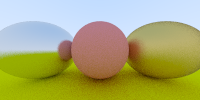
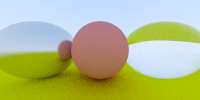
Chapter 9: Dielectrics
Added Dielectric material.

diff --git a/src/hitable/materials.rs b/src/hitable/materials.rs
@@ -1,5 +1,6 @@
 use hitable::hit_record::HitRecord;
 use hitable::utils;
+use rand::distributions::{Distribution, Uniform};
 use ray::Ray;
 use vec3::{dot, unit_vector, Vec3};
 
@@ -80,6 +81,78 @@ impl Material for Metal {
         // the ray has been scattered under the object's surface.
         let didScatter = dot(&scatteredRay.direction, &hit_record.normal) > 0.0;
         (scatteredRay, attenuation, didScatter)
+    }
+
+    fn box_clone(&self) -> Box<Material> {
+        Box::new((*self).clone())
+    }
+}
+
+/// A surface that splits a light ray into both a refracted and reflected ray (e.g. glass, water, etc.).
+/// 
+/// Note that only one ray is generated per interaction; the choice between reflected and refracted
+/// is chosen randomly.
+#[derive(Copy, Clone, Debug)]
+pub struct Dielectric {
+    pub refractive_index: f64,
+}
+
+impl Dielectric {
+    pub fn new(refractive_index: f64) -> Self {
+        Dielectric { refractive_index }
+    }
+}
+
+impl Material for Dielectric {
+    fn scatter(&self, input_ray: &Ray, hit_record: &HitRecord) -> (Ray, Vec3, bool) {
+        let range = Uniform::new_inclusive(0.0, 1.0);
+        let mut rng = rand::thread_rng();
+        // The glass surface does not absorb anything, so attenuation is set to 1
+        let attenuation = Vec3::new(1.0, 1.0, 1.0);
+        let dot_prod = dot(&input_ray.direction, &hit_record.normal);
+        // n1/n2 -> ray enters medium 2 from medium 1
+        let ni_over_nt: f64;
+        let cosine: f64;
+        let outward_normal: Vec3;
+
+        // If dot_prod is > 0, this means that the ray is coming from inside the object
+        if dot_prod > 0.0 {
+            outward_normal = -hit_record.normal;
+            ni_over_nt = self.refractive_index;
+            cosine = self.refractive_index * dot_prod / input_ray.direction.length();
+        } else {
+            outward_normal = hit_record.normal;
+            ni_over_nt = 1.0 / self.refractive_index;
+            cosine = -dot_prod / input_ray.direction.length();
+        }
+
+        let refracted_ray: Vec3;
+        let reflect_probability =
+            match utils::refract(&input_ray.direction, &outward_normal, ni_over_nt) {
+                Some(refracted) => {
+                    refracted_ray = refracted;
+                    utils::schlick_approx(cosine, self.refractive_index)
+                }
+                None => {
+                    refracted_ray = Vec3::new(0.0, 0.0, 0.0);
+                    1.0
+                }
+            };
+
+        let scattered_ray: Ray;
+        if range.sample(&mut rng) <= reflect_probability {
+            scattered_ray = Ray {
+                origin: hit_record.hit_point,
+                direction: utils::reflect(&input_ray.direction, &hit_record.normal),
+            }
+        } else {
+            scattered_ray = Ray {
+                origin: hit_record.hit_point,
+                direction: refracted_ray,
+            }
+        };
+
+        (scattered_ray, attenuation, true)
     }
 
     fn box_clone(&self) -> Box<Material> {

diff --git a/src/hitable/utils.rs b/src/hitable/utils.rs
@@ -1,5 +1,5 @@
 use rand::distributions::{Distribution, Uniform};
-use vec3::{dot, Vec3};
+use vec3::{dot, unit_vector, Vec3};
 
 /// Generates a random point in a unit-radius sphere
 pub fn random_point_in_unit_sphere() -> Vec3 {
@@ -27,4 +27,31 @@ pub fn random_point_in_unit_sphere() -> Vec3 {
 /// - `norm`: The surface normal of the mirror
 pub fn reflect(dir: &Vec3, norm: &Vec3) -> Vec3 {
     *dir - (2.0 * dot(dir, norm) * (*norm))
+}
+
+/// Calculates the direction of a ray after being refracted through a dielectric material
+/// #### Arguments:
+/// - `dir`: The initial direction of the ray
+/// - `norm`: The surface normal of the mirror
+/// - `ni_over_nt`: The refractive index of medium 1 divided by the refractive index of medium 2 (i.e. n1/n2)
+pub fn refract(dir: &Vec3, norm: &Vec3, ni_over_nt: f64) -> Option<Vec3> {
+    let unit_vec = unit_vector(*dir);
+    let dt = dot(&unit_vec, norm);
+    let discriminant = 1.0 - (ni_over_nt * ni_over_nt * (1.0 - dt * dt));
+    return if discriminant > 0.0 {
+        Some(ni_over_nt * (unit_vec - (*norm) * dt) - ((*norm) * discriminant.sqrt()))
+    } else {
+        None
+    };
+}
+
+/// Calculates Schlick's approximation for specular reflection
+/// #### General Form:
+/// - R(theta) = R_0 + (1 - R_0) * (1 - cos(theta))^5
+///   - where R_0 = ((n1 - n2) / (n1 + n2))^2
+/// - Note that in this case, the first medium is air which has a refractive index of 1 (i.e. n1 = 1)
+pub fn schlick_approx(cosine: f64, refractive_index: f64) -> f64 {
+    let mut r0 = (1.0 - refractive_index) / (1.0 + refractive_index);
+    r0 = r0 * r0;
+    r0 + (1.0 - r0) * (1.0 - cosine).powi(5)
 }

diff --git a/src/main.rs b/src/main.rs
@@ -17,7 +17,7 @@ use camera::Camera;
 use hitable::hit_record::HitRecord;
 use hitable::hitable::Hitable;
 use hitable::hitable_list::HitableList;
-use hitable::materials::{Lambertian, Metal};
+use hitable::materials::{Dielectric, Lambertian, Metal};
 use hitable::sphere::Sphere;
 use ray::Ray;
 use vec3::{unit_vector, Vec3};
@@ -76,7 +76,7 @@ fn main() {
             Box::new(Sphere {
                 center: Vec3::new(1.0, 0.0, -1.0),
                 radius: 0.5,
-                material: Box::new(Metal::new(Vec3::new(0.8, 0.6, 0.2), 0.6)),
+                material: Box::new(Dielectric::new(1.5)),
             }),
             Box::new(Sphere {
                 center: Vec3::new(-1.0, 0.0, -1.0),
